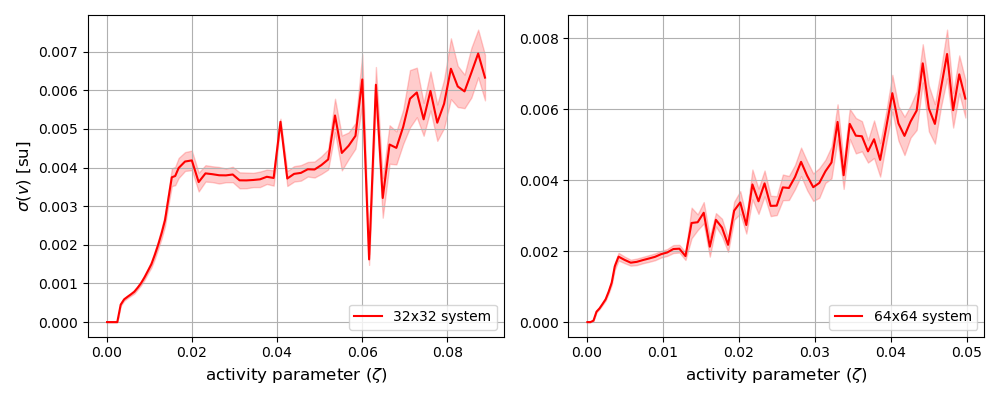
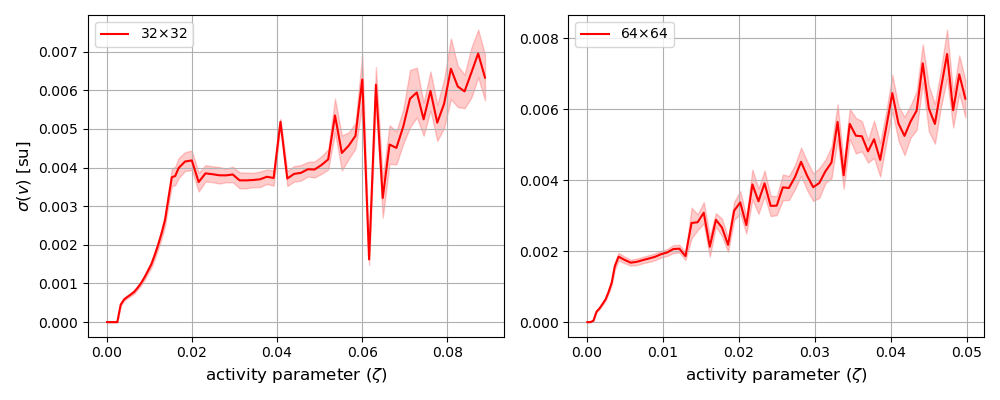
gaussian filter for sdfreq, new labels on plots

diff --git a/plot.py b/plot.py
@@ -19,7 +19,7 @@ def plot_vz(data):
     plt.plot(z, v, linestyle='-', color='b')
     plt.xlabel(r'activity parameter ($\zeta$)')
     plt.ylabel(r'average velocity [su]')
-    plt.title(rf'Velocity vs Activity (${system} \times {system}$ system)')
+    plt.title(rf'Velocity vs Activity (${system} \times {system}$)')
     plt.xlim(0.0002, 0.007) 
     plt.ylim(0, 0.006)
     plt.grid(True)
@@ -45,18 +45,19 @@ def plot_v_rms(data):
 
 def plot_SD(data):
     """Plot standard deviation of velocity vs activity parameter with shaded error region"""
-    z = data[:, 0]
-    SD = data[:, 1]
-    SD_err = data[:, 2]
+    data1 = data[::4]  # downsample for clarity
+    z = data1[:, 0]
+    SD = data1[:, 1]
+    SD_err = data1[:, 2]
 
     plt.figure(figsize=(8, 6))
-    plt.plot(z, SD, linestyle='-', color='r', label=f'{system}x{system} system')
+    plt.plot(z, SD, linestyle='-', color='r', label=rf'{system}$\times${system}')
     plt.fill_between(z, SD - SD_err, SD + SD_err, color='r', alpha=0.2)
     plt.xlabel(r'activity parameter ($\zeta$)', fontsize=12)
     plt.ylabel(r'$\sigma (\nu)$ [su]', fontsize=12)
     #plt.title(rf'Standard Deviation of Velocity vs Activity (${system} \times {system}$ system)')
     plt.grid(True)
-    plt.legend(loc='lower right')
+    plt.legend(loc='upper left')
     plt.show()
 
 def plot_vt(data):
@@ -65,26 +66,27 @@ def plot_vt(data):
     v = data[:, 1]
 
     plt.figure(figsize=(8, 6))
-    plt.plot(t, v, linestyle='-', color='g', label=f'{system}x{system} system')
+    plt.plot(t, v, linestyle='-', color='g', label=rf'${system} \times {system}$')
     plt.xlabel('timestep', fontsize=12)
     plt.ylabel(r'$\overline{v}$ [su]', fontsize=12)
     #plt.title(rf'Average Velocity Evolution (${system} \times {system}$ system)')
     plt.grid(True)
-    plt.legend(loc='lower right')
+    plt.legend()
     plt.show()
 
 def plot_mean_v(data):
     """Plot mean velocity in steady-state against activity parameter"""
-    z = data[:, 0]
-    v = data[:, 1]
+    data1 = data[::2]
+    z = data1[:, 0]
+    v = data1[:, 1]
 
     plt.figure(figsize=(8, 6))
-    plt.plot(z, v, linestyle='-', color='b', label=f'{system}x{system} system')
+    plt.plot(z, v, linestyle='-', color='b', label=rf'${system} \times {system}$')
     plt.xlabel(r'activity parameter ($\zeta$)', fontsize=12)
     plt.ylabel(r'$\langle v \rangle$ in steady-state [su]', fontsize=12)
     #plt.title(rf'Mean Velocity vs Activity (${system} \times {system}$ system)')
     plt.grid(True)
-    plt.legend(loc='lower right')
+    plt.legend()
     plt.show()
 
 def plot_fft(data):
@@ -123,8 +125,8 @@ def plot_fft(data):
 
 def plot_both_mean_vz(data32, data64):
     """Plot mean velocity in steady-state vs activity parameter for both 32x32 and 64x64 systems."""
-    data32 = np.array(data32)
-    data64 = np.array(data64)
+    data32 = np.array(data32)[::4]
+    data64 = np.array(data64)[::2]
 
     z32 = data32[:, 0]
     v32 = data32[:, 1]
@@ -136,17 +138,17 @@ def plot_both_mean_vz(data32, data64):
 
     #fig.suptitle(rf'Mean Velocity in Steady-State vs. Activity', fontsize=16)
 
-    ax[0].plot(z32, v32, label='32x32 system', color='b')
+    ax[0].plot(z32, v32, label=r'32$\times$32', color='b')
     ax[0].set_xlabel(r'activity parameter ($\zeta$)', fontsize=12)
     ax[0].set_ylabel(r'$\langle v \rangle$ in steady-state [su]', fontsize=12)
     ax[0].set_ylabel(r'$\langle v \rangle$ in steady-state [su]', fontsize=12)
-    ax[0].legend(loc='lower right')
+    ax[0].legend()
     ax[0].grid(True)
 
-    ax[1].plot(z64, v64, label='64x64 system', color='b')
+    ax[1].plot(z64, v64, label=r'64$\times$64', color='b')
     ax[1].set_xlabel(r'activity parameter ($\zeta$)', fontsize=12)
     #ax[1].set_ylabel(r'mean velocity in steady-state [$su$]', fontsize=12)
-    ax[1].legend(loc='lower right')
+    ax[1].legend()
     ax[1].grid(True)
 
     plt.tight_layout()  # Add extra padding at bottom
@@ -154,8 +156,8 @@ def plot_both_mean_vz(data32, data64):
 
 def plot_both_SD(data32, data64):
     """Plot standard deviation of velocity vs activity parameter for both 32x32 and 64x64 systems."""
-    data32 = np.array(data32)
-    data64 = np.array(data64)
+    data32 = np.array(data32)[::8]
+    data64 = np.array(data64)[::4]
 
     z32 = data32[:, 0]
     SD32 = data32[:, 1]
@@ -169,18 +171,18 @@ def plot_both_SD(data32, data64):
 
     #fig.suptitle(rf'Standard Deviation of Velocity vs. Activity', fontsize=16)
 
-    ax[0].plot(z32, SD32, label='32x32 system', color='r')
+    ax[0].plot(z32, SD32, label=r'32$\times$32', color='r')
     ax[0].fill_between(z32, SD32 - SD_err32, SD32 + SD_err32, color='r', alpha=0.2)
     ax[0].set_xlabel(r'activity parameter ($\zeta$)', fontsize=12)
     ax[0].set_ylabel(r'$\sigma(v)$ [su]', fontsize=12)
-    ax[0].legend(loc='lower right')
+    ax[0].legend(loc='upper left')
     ax[0].grid(True)
 
-    ax[1].plot(z64, SD64, label='64x64 system', color='r')
+    ax[1].plot(z64, SD64, label=r'64$\times$64', color='r')
     ax[1].fill_between(z64, SD64 - SD_err64, SD64 + SD_err64, color='r', alpha=0.2)
     ax[1].set_xlabel(r'activity parameter ($\zeta$)', fontsize=12)
     #ax[1].set_ylabel(r'standard deviation of velocity [$su$]', fontsize=12)
-    ax[1].legend(loc='lower right')
+    ax[1].legend(loc='upper left')
     ax[1].grid(True)
     
     plt.tight_layout()  # Add extra padding at bottom
@@ -188,13 +190,13 @@ def plot_both_SD(data32, data64):
 
 if __name__ == "__main__":
     
-    system = "32"
-    local_path = Path(__file__).parent / f"velocity vs time AB0.0 {system}"
-    file_path = local_path / 'velocity_.0400.dat'
+    system = "64"
+    local_path = Path(__file__).parent / f"velocity vs time AB0.1 {system}"
+    file_path = local_path / 'mean_v_data.txt'
 
-    data = np.loadtxt(file_path)[::1]
+    data = np.loadtxt(file_path)
     
-    plot_vt(data)
+    plot_mean_v(data)
     """
     local_path32 = Path(__file__).parent / "velocity vs time AB0.0 32"
     local_path64 = Path(__file__).parent / "velocity vs time AB0.0 64"
@@ -202,8 +204,8 @@ if __name__ == "__main__":
     file_path32 = local_path32 / 'SD_data.txt'
     file_path64 = local_path64 / 'SD_data.txt'
 
-    data32 = np.loadtxt(file_path32)[::8]
-    data64 = np.loadtxt(file_path64)[::4]
+    data32 = np.loadtxt(file_path32)
+    data64 = np.loadtxt(file_path64)
 
-    plot_both_mean_vz(data32, data64)
+    plot_both_SD(data32, data64)
     """

diff --git a/fourier.py b/fourier.py
@@ -1,4 +1,6 @@
 import scipy.fft as fft
+from scipy.signal import savgol_filter
+from scipy.ndimage import gaussian_filter1d
 import numpy as np
 import matplotlib.pyplot as plt
 from pathlib import Path
@@ -80,8 +82,11 @@ def plot_SD_freq(SD_freq, spacing=1):
     z = SD_freq[:, 0]
     SD_nu = SD_freq[:, 1]
 
+    smoothed = gaussian_filter1d(SD_nu, sigma=6)
+
     plt.figure(figsize=(8, 6))
-    plt.plot(z[::spacing], SD_nu[::spacing], color='m', label=f'{system}x{system} system')
+    plt.plot(z[::spacing], SD_nu[::spacing], color='m', label=rf'{system}$\times${system} unfiltered', alpha=0.2)
+    plt.plot(z[::spacing], smoothed[::spacing], color='m', label='Gaussian filtered')
     plt.xlabel(r'activity parameter ($\zeta$)', fontsize=12)
     plt.ylabel(r'$\sigma(\nu)$ [cycles timestep$^{-1}$]', fontsize=12)
     #plt.title(rf'Standard Deviation of Frequency vs. Activity', fontsize=16)
@@ -100,34 +105,39 @@ def plot_both(data32, data64, spacing32, spacing64):
     z64 = data64[:, 0]
     SD_nu64 = data64[:, 1]
 
+    smoothed32 = gaussian_filter1d(SD_nu32, sigma=6)
+    smoothed64 = gaussian_filter1d(SD_nu64, sigma=6)
+
     fig, ax = plt.subplots(1, 2, figsize=(10, 4))
 
     #fig.suptitle(rf'Standard Deviation of Frequency vs. Activity', fontsize=16)
 
-    ax[0].plot(z32[::spacing32], SD_nu32[::spacing32], label='32x32 system', color='m')
+    ax[0].plot(z32[::spacing32], SD_nu32[::spacing32], label=r'32$\times$32 unfiltered', color='m', alpha=0.2)
+    ax[0].plot(z32[::spacing32], smoothed32[::spacing32], label='Gaussian filtered', color='m')
     ax[0].set_xlabel(r'activity parameter ($\zeta$)', fontsize=12)
     ax[0].set_ylabel(r'$\sigma(\nu)$ [cycles timestep$^{-1}$]', fontsize=12)
-    ax[0].legend(loc='lower right')
+    ax[0].legend()
     ax[0].grid(True)
 
-    ax[1].plot(z64[::spacing64], SD_nu64[::spacing64], label='64x64 system', color='m')
+    ax[1].plot(z64[::spacing64], SD_nu64[::spacing64], label=r'64$\times$64 unfiltered', color='m', alpha=0.2)
+    ax[1].plot(z64[::spacing64], smoothed64[::spacing64], label='Gaussian filtered', color='m')
     ax[1].set_xlabel(r'activity parameter ($\zeta$)', fontsize=12)
     #ax[1].set_ylabel(r'standard deviation of frequency [cycles timestep$^{-1}$]')
-    ax[1].legend(loc='lower right')
+    ax[1].legend()
     ax[1].grid(True)
     
     plt.tight_layout()  # Add extra padding at bottom
     plt.show()
 
 if __name__ == "__main__":
-    """
+    
     system = "64"
     local_path = Path(__file__).parent / f"velocity vs time AB0.1 {system}"
     
     if system == "32":
-        spacing = 4
+        spacing = 1 #4
     elif system == "64":
-        spacing = 2
+        spacing = 1 #2
 
     z, t_list, v_list = get_data(local_path)
     SD_freq = frequency_analysis(z, t_list, v_list)
@@ -142,5 +152,5 @@ if __name__ == "__main__":
     z64, t_list64, v_list64 = get_data(local_path64)
     SD_freq64 = frequency_analysis(z64, t_list64, v_list64)
 
-    plot_both(SD_freq32, SD_freq64, spacing32=4, spacing64=2)
-    
+    plot_both(SD_freq32, SD_freq64, spacing32=1, spacing64=1)
+    """
